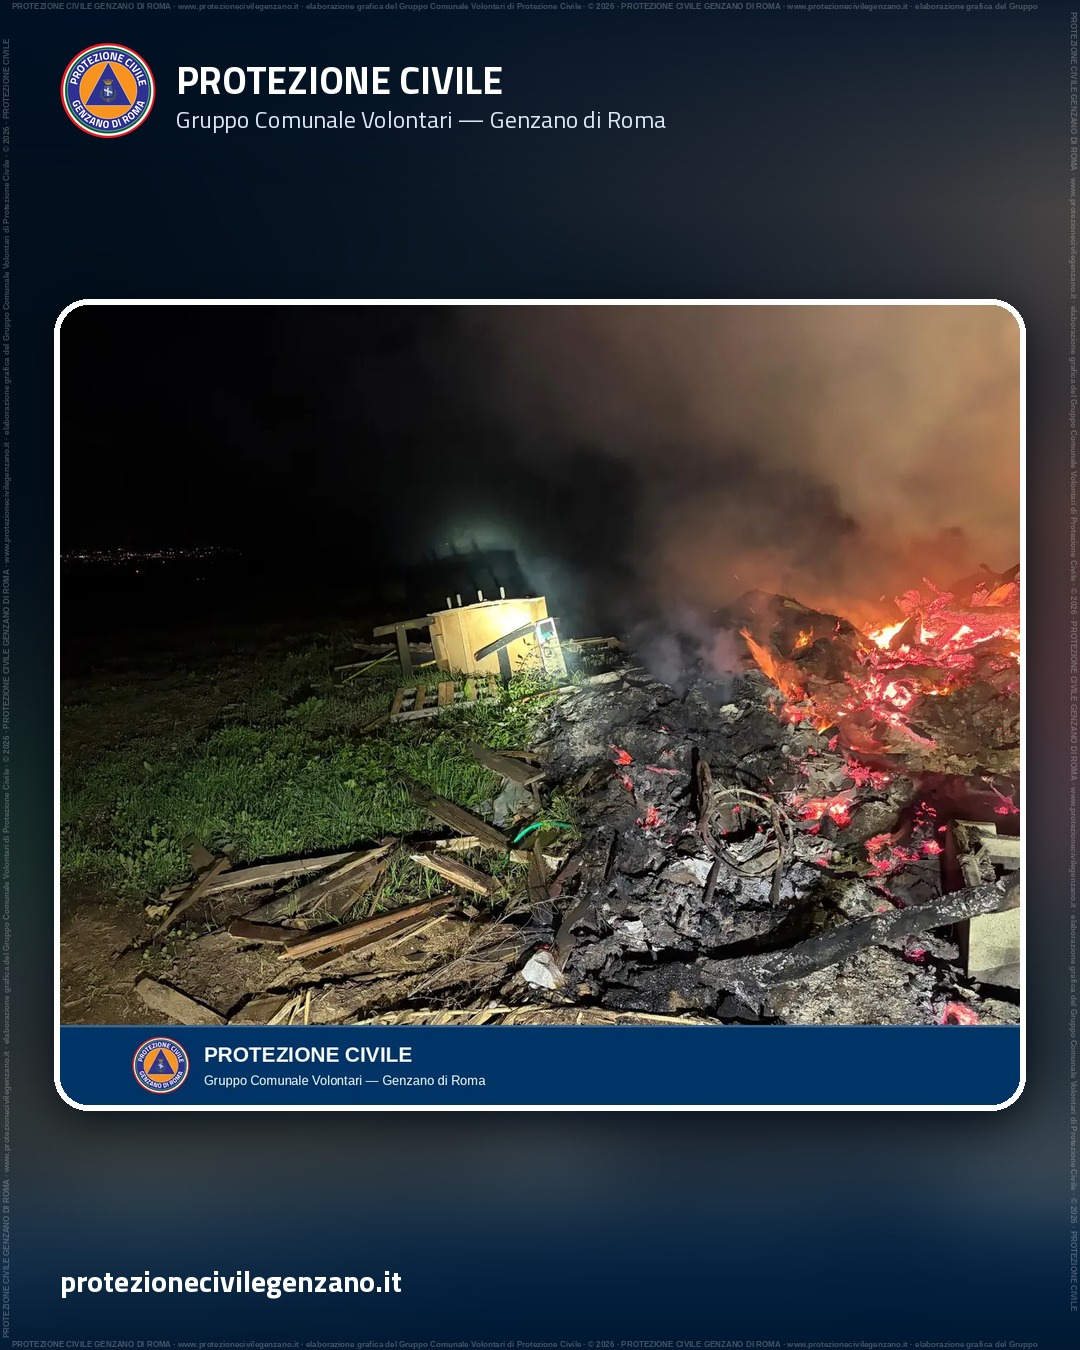
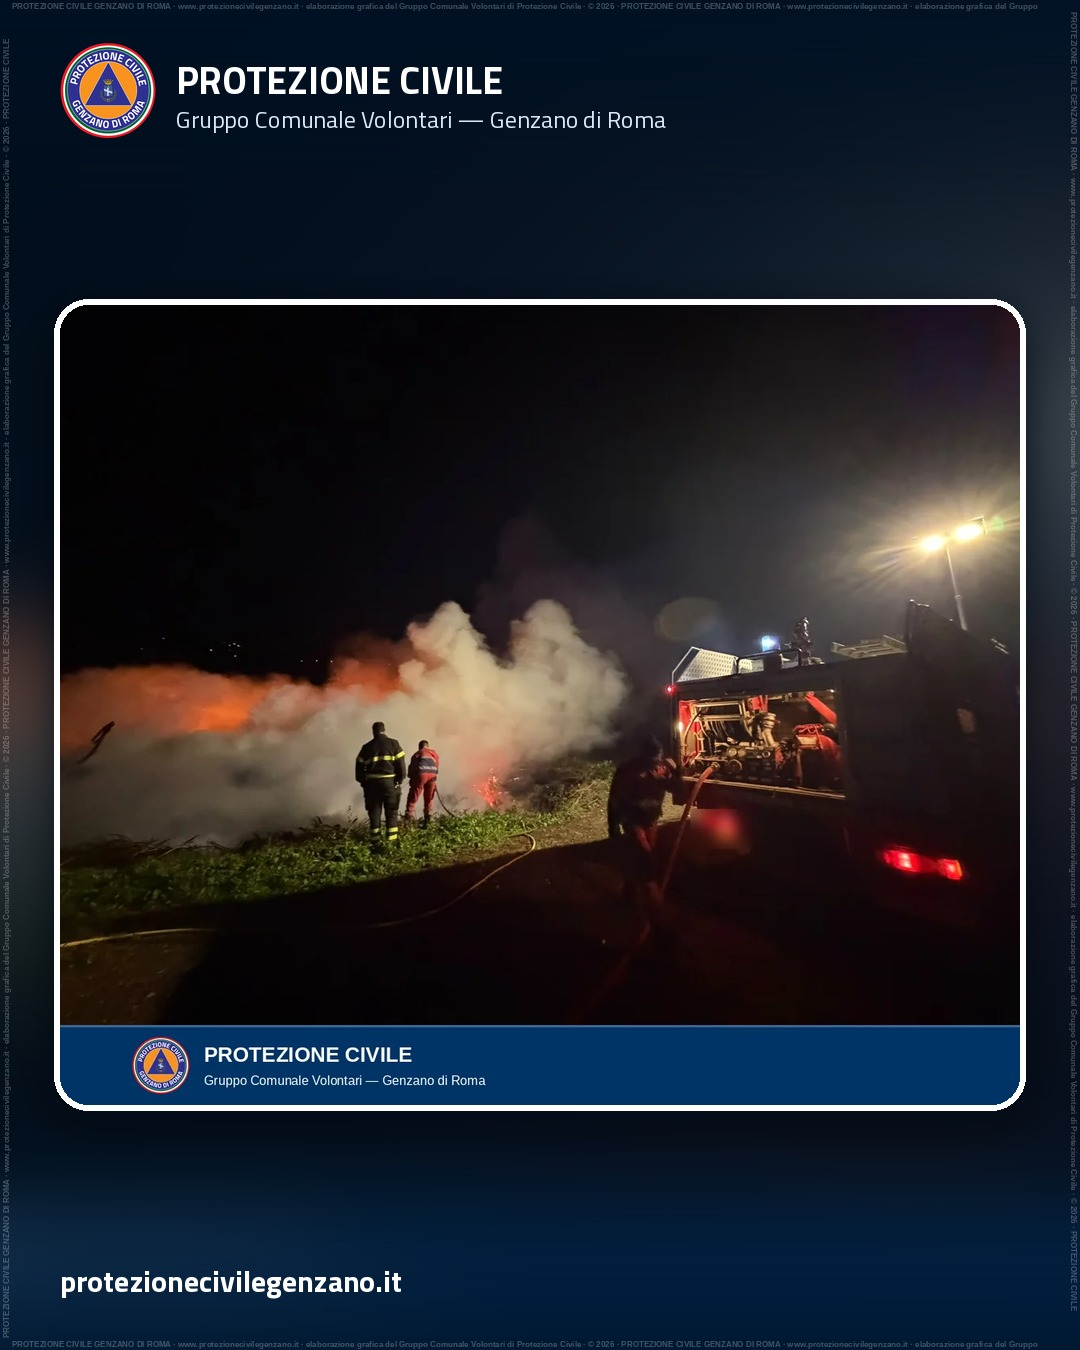
Articolo via di Pozzi Bonelli: tre foto, solo fiamme e vegetazione
Tolte le foto con mobili e pannelli, coerenti con il nuovo testo; carosello
social rigenerato.

diff --git a/content/comunicazioni/2026-10-12-incendio-rifiuti-via-pozzi-bonelli.md b/content/comunicazioni/2026-10-12-incendio-rifiuti-via-pozzi-bonelli.md
@@ -27,26 +27,9 @@ social_punti:
 
 In un terreno privato bruciavano **sterpaglie e sfalci**: erba secca, rami e canne accumulati, ai margini di un canneto.
 
-{{< galleria titolo="L'intervento in via di Pozzi Bonelli" >}}
 {{< foto src="/images/2026-10-12-pozzi-bonelli-fiamme-recinzione.webp"
          alt="Di notte, oltre una recinzione a rete con paletti di cemento, fiamme alte e fumo arancione fra alberi e sterpi; sullo sfondo le case illuminate di un centro abitato; in primo piano erba e alberi in luce blu e due sagome scure."
          caption="Le fiamme viste da fuori dalla recinzione, con le case illuminate sullo sfondo. Foto: Gruppo Comunale Volontari di Protezione Civile di Genzano di Roma." >}}
-{{< foto src="/images/2026-10-12-pozzi-bonelli-rifiuti-braci.webp"
-         alt="Un mobile di legno rovesciato, un pallet e assi sull'erba accanto a un cumulo carbonizzato, con braci rosse e fumo."
-         caption="Braci e fumo accanto a un mobile di legno e a un pallet. Foto: Gruppo Comunale Volontari di Protezione Civile di Genzano di Roma." >}}
-{{< foto src="/images/2026-10-12-pozzi-bonelli-vigili-fuoco-volontario.webp"
-         alt="Di notte un vigile del fuoco e un volontario in divisa rossa e blu, di spalle, dirigono una lancia verso una nube di fumo bianco e arancione; a destra un mezzo antincendio con il vano posteriore aperto e una persona che maneggia la manichetta."
-         caption="Vigili del Fuoco e volontari al lavoro sul fronte del fumo, con il Mercedes Atego del Gruppo. Foto: Gruppo Comunale Volontari di Protezione Civile di Genzano di Roma." >}}
-{{< foto src="/images/2026-10-12-pozzi-bonelli-volontario-raffreddamento.webp"
-         alt="Un volontario in divisa rossa e blu con mascherina sul viso bagna con la lancia un cumulo di pannelli bianchi e legno da cui sale una grande nube di vapore."
-         caption="Il raffreddamento dei pannelli e del legno, avvolti da una nube di vapore e fumo. Foto: Gruppo Comunale Volontari di Protezione Civile di Genzano di Roma." >}}
-{{< foto src="/images/2026-10-12-pozzi-bonelli-fiamme-canneto.webp"
-         alt="Fiamme e scintille escono da un ceppo bruciato e da un groviglio di materiale carbonizzato ai piedi di un canneto verde."
-         caption="Un focolaio rimasto acceso ai margini del canneto. Foto: Gruppo Comunale Volontari di Protezione Civile di Genzano di Roma." >}}
-{{< foto src="/images/2026-10-12-pozzi-bonelli-vapore-pannelli.webp"
-         alt="Pannelli bianchi e assi annerite a terra davanti a una spessa nube di vapore illuminata da un faro; a destra le canne, al margine sinistro un getto d'acqua."
-         caption="Pannelli e assi bagnati che continuano a fumare durante il raffreddamento. Foto: Gruppo Comunale Volontari di Protezione Civile di Genzano di Roma." >}}
-{{< /galleria >}}
 
 ## Come è andato l'intervento
 
@@ -54,7 +37,15 @@ Il terreno era recintato e privato. La squadra ha chiesto l'intervento dei **Vig
 
 Il Gruppo era arrivato con il **Land Rover Defender 130**, pickup 4x4 con modulo antincendio da 600 litri. Sul posto i Vigili del Fuoco hanno chiesto di sostituirlo con il **Mercedes Atego**, il mezzo polivalente con impianto antincendio da 6.000 litri. Lo stesso personale ha cambiato mezzo e ha proseguito il lavoro.
 
+{{< foto src="/images/2026-10-12-pozzi-bonelli-vigili-fuoco-volontario.webp"
+         alt="Di notte un vigile del fuoco e un volontario in divisa rossa e blu, di spalle, dirigono una lancia verso una nube di fumo bianco e arancione; a destra un mezzo antincendio con il vano posteriore aperto e una persona che maneggia la manichetta."
+         caption="Vigili del Fuoco e volontari al lavoro sul fronte del fumo, con il Mercedes Atego del Gruppo. Foto: Gruppo Comunale Volontari di Protezione Civile di Genzano di Roma." >}}
+
 Il compito del Gruppo è stato il **raffreddamento** dell'area bruciata. Terminate queste operazioni, con l'autorizzazione dei Vigili del Fuoco, la squadra ha comunicato alla Sala Operativa la fine dell'intervento per la parte di sua competenza. Il rientro in sede è avvenuto poco dopo l'una di notte.
+
+{{< foto src="/images/2026-10-12-pozzi-bonelli-fiamme-canneto.webp"
+         alt="Fiamme e scintille escono da un ceppo bruciato e da un groviglio di materiale carbonizzato ai piedi di un canneto verde."
+         caption="Un focolaio rimasto acceso ai margini del canneto. Foto: Gruppo Comunale Volontari di Protezione Civile di Genzano di Roma." >}}
 
 ## Perché sterpaglie e sfalci bruciano così a lungo
 

diff --git a/social-bozze/2026/10/2026-10-12-incendio-rifiuti-via-pozzi-bonelli/README.md b/social-bozze/2026/10/2026-10-12-incendio-rifiuti-via-pozzi-bonelli/README.md
@@ -11,7 +11,7 @@ Il numero del carosello è l'ordine di caricamento.
 
 | File | Dove si pubblica |
 |---|---|
-| `feed-carosello-1.jpg`, `feed-carosello-2.jpg`, `feed-carosello-3.jpg`, `feed-carosello-4.jpg`, `feed-carosello-5.jpg`, `feed-carosello-6.jpg`, `feed-carosello-7.jpg`, `feed-carosello-8.jpg`, `feed-carosello-9.jpg`, `feed-carosello-10.jpg` | FEED Instagram + Facebook — carosello: caricale **tutte, in ordine** (1080×1350) |
+| `feed-carosello-1.jpg`, `feed-carosello-2.jpg`, `feed-carosello-3.jpg`, `feed-carosello-4.jpg`, `feed-carosello-5.jpg`, `feed-carosello-6.jpg`, `feed-carosello-7.jpg` | FEED Instagram + Facebook — carosello: caricale **tutte, in ordine** (1080×1350) |
 | `storia.jpg` | STORIE Instagram + Facebook — verticale, sparisce dopo 24h (1080×1920) |
 | `instagram.txt` | testo per Instagram |
 | `facebook.txt` | testo per Facebook (anteprima OG dall'URL) |
